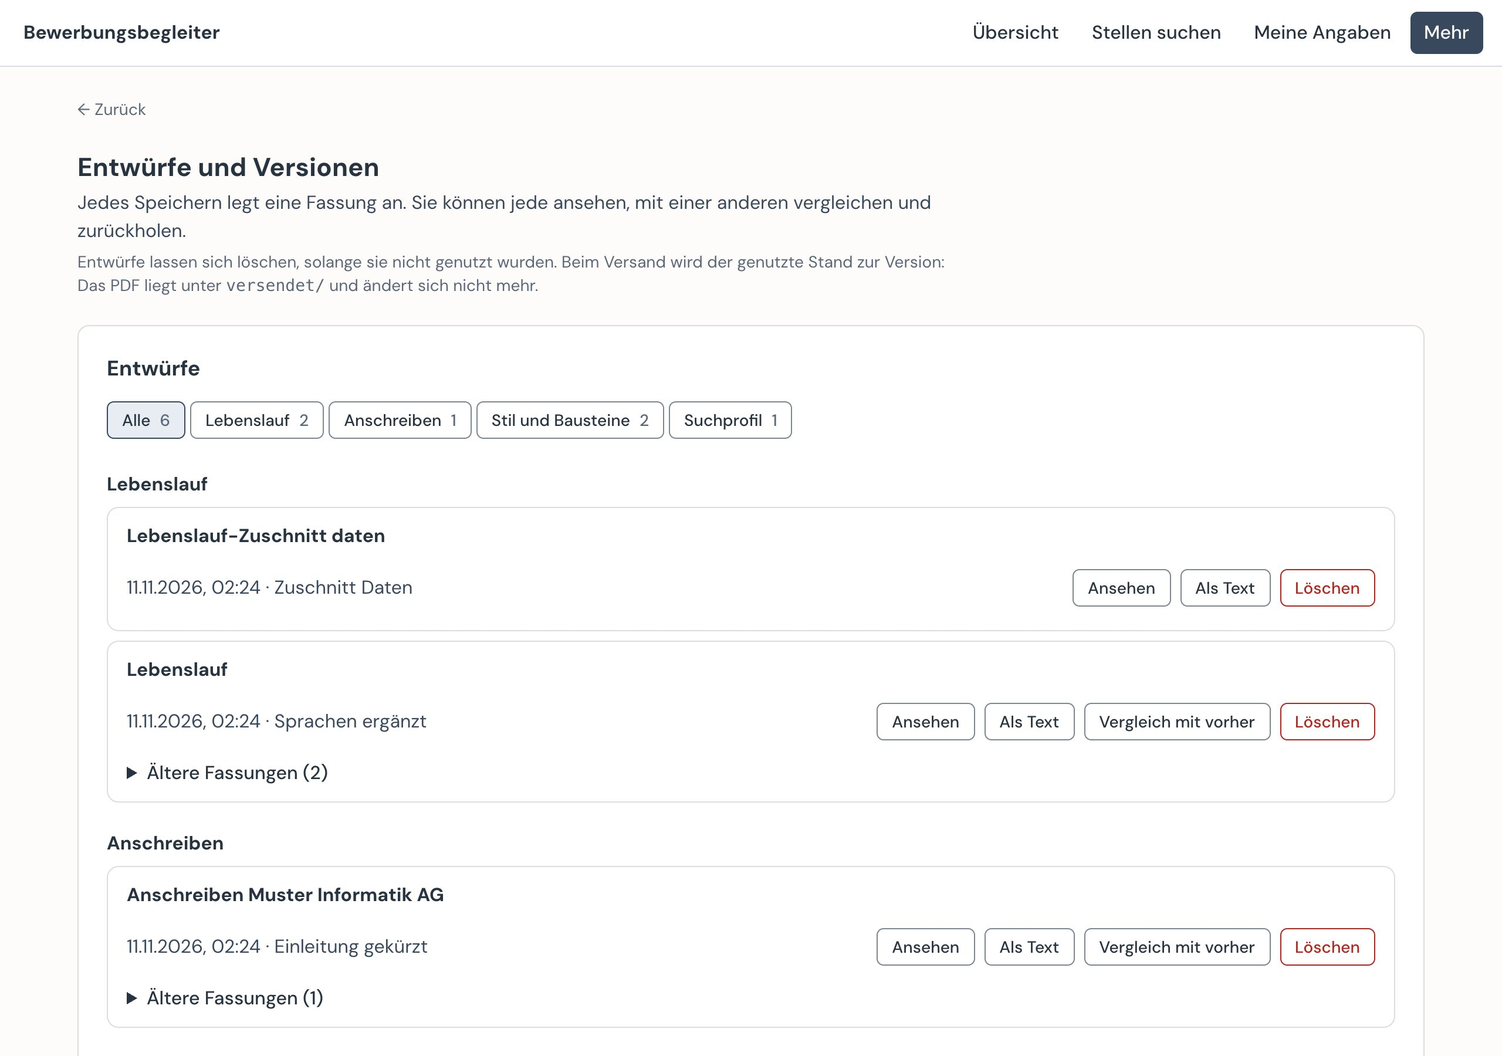
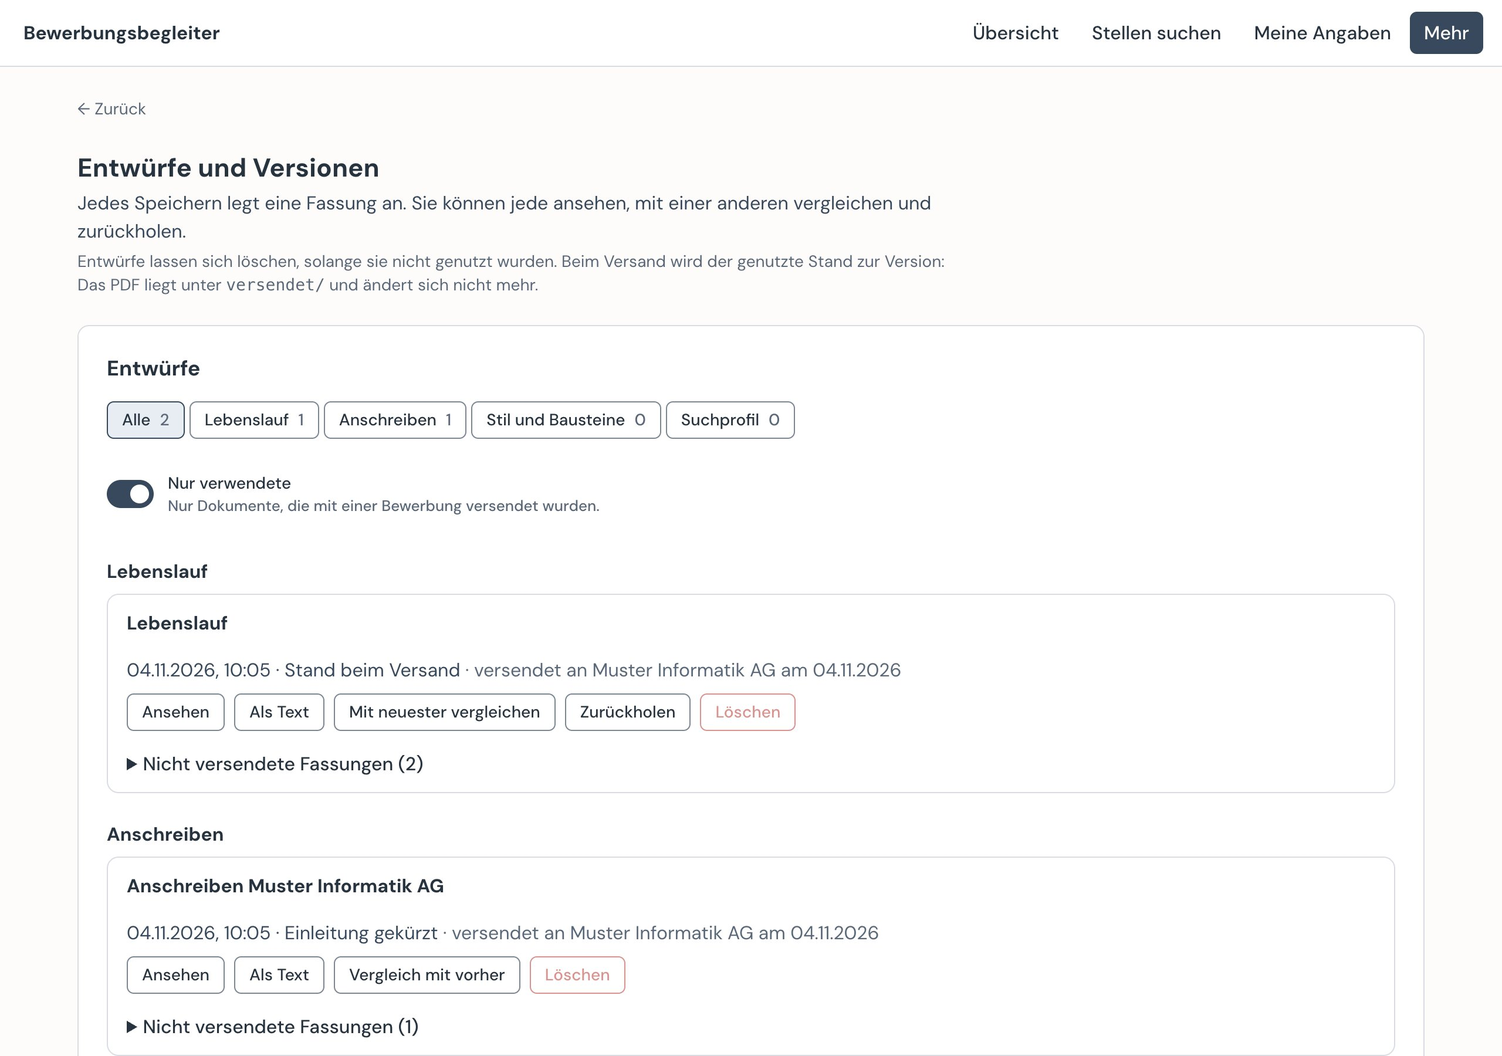
fix(bewerbungen): show only drafts sent with an application [#240]
Each version names the company and date it went out with, from the purpose the sending recorded on it. The switch keeps every version on the page and is remembered in the browser.

diff --git a/bewerbungen/seiten/entwuerfe.js b/bewerbungen/seiten/entwuerfe.js
@@ -66,28 +66,36 @@
     return knopfHolen;
   }
 
-  // One version: when, what, whether it was sent, and what can be done with it
+  // One version: when, what, with which application it went out, and what can be done with it
   function fassung(e, knoepfe) {
+    const versendet = Logik.versandText(e);
     return el("li", { class: "drafts__version" },
       el("div", {}, el("time", { datetime: e.zeit }, zeit(e.zeit)), " · ", e.beschreibung || "ohne Beschreibung",
-        e.genutzt ? el("span", { class: "leise", title: e.genutzt_fuer.join(", ") }, " · versendet") : null),
+        versendet ? el("span", { class: "drafts__sent" }, " · " + versendet) : null),
       el("div", { class: "knoepfe" }, knoepfe.filter(Boolean)));
   }
 
+  // The buttons of a version: the newest compares with the one before it, any other with the newest and can come back
+  function knoepfe(e, dokument) {
+    const [neueste, vorher] = dokument.fassungen;
+    const textKnopf = e.pdf && !e.datei.endsWith(".pdf") ? knopf("Als Text", () => alsText(e)) : null;
+    const vergleich = e === neueste
+      ? (vorher ? knopf("Vergleich mit vorher", () => vergleichen(vorher, neueste)) : null)
+      : knopf("Mit neuester vergleichen", () => vergleichen(e, neueste));
+    return [knopf("Ansehen", () => ansehen(e)), textKnopf, vergleich, e === neueste ? null : zurueckholenKnopf(e, dokument),
+      loeschenKnopf(e)];
+  }
+
   function dokumentKarte(dokument) {
-    const { neueste, aeltere } = Logik.fassungen(dokument);
-    const alsTextKnopf = e => (e.pdf && !e.datei.endsWith(".pdf") ? knopf("Als Text", () => alsText(e)) : null);
-    const oben = fassung(neueste, [knopf("Ansehen", () => ansehen(neueste)), alsTextKnopf(neueste),
-      aeltere.length ? knopf("Vergleich mit vorher", () => vergleichen(aeltere[0], neueste)) : null, loeschenKnopf(neueste)]);
-    const titel = Logik.aeltereTitel(aeltere);
-    const gefaltet = titel ? el("details", { class: "drafts__older" }, el("summary", {}, titel),
-      el("ul", {}, aeltere.map(e => fassung(e, [knopf("Ansehen", () => ansehen(e)), alsTextKnopf(e),
-        knopf("Mit neuester vergleichen", () => vergleichen(e, neueste)), zurueckholenKnopf(e, dokument), loeschenKnopf(e)])))) : null;
-    return el("article", { class: "karte drafts__doc" }, el("h4", {}, dokument.titel), el("ul", {}, [oben]), gefaltet);
+    const { oben, gefaltet, faltTitel } = Logik.ansicht(dokument, { nurVerwendet: nurVerwendet && !nurDatei });
+    const gefaltetTeil = faltTitel ? el("details", { class: "drafts__older" }, el("summary", {}, faltTitel),
+      el("ul", {}, gefaltet.map(e => fassung(e, knoepfe(e, dokument))))) : null;
+    return el("article", { class: "karte drafts__doc" }, el("h4", {}, dokument.titel),
+      el("ul", {}, oben.map(e => fassung(e, knoepfe(e, dokument)))), gefaltetTeil);
   }
 
   function zeigeFilter(gruppen) {
-    const knoepfe = Logik.filter(gruppen).map(f => el("button", {
+    const knoepfe = Logik.filter(gruppen, { nurVerwendet }).map(f => el("button", {
       type: "button", class: "btn btn--sm", "aria-pressed": String(f.art === filterArt),
       onclick: () => { filterArt = f.art; zeige(); },
     }, f.titel, " ", el("span", { class: "num" }, String(f.zahl))));
@@ -99,12 +107,30 @@
   let filterArt = Logik.ALLE;
   const nurDatei = new URLSearchParams(location.search).get("datei") || "";
 
+  // "Nur verwendete" stays across reloads; without storage (private window) it simply starts off
+  const NUR_VERWENDETE = "entwuerfe.nurVerwendet";
+  function gemerkt() {
+    try { return Logik.gespeichert(localStorage.getItem(NUR_VERWENDETE)); } catch { return false; }
+  }
+  function merken(an) {
+    try { localStorage.setItem(NUR_VERWENDETE, Logik.speicherwert(an)); } catch { /* the choice lasts until reload */ }
+  }
+  let nurVerwendet = gemerkt();
+  $("nur-verwendete").checked = nurVerwendet;
+  $("nur-verwendete").addEventListener("change", () => {
+    nurVerwendet = $("nur-verwendete").checked;
+    merken(nurVerwendet);
+    zeige();
+  });
+
   function zeige() {
     zeigeFilter(gruppen);
-    const sichtbar = Logik.sichtbar(gruppen, { art: filterArt, datei: nurDatei });
+    const sichtbar = Logik.sichtbar(gruppen, { art: filterArt, datei: nurDatei, nurVerwendet: nurVerwendet && !nurDatei });
     $("gruppen").replaceChildren(...sichtbar.map(g => el("section", { class: "drafts__group" },
       el("h3", {}, g.titel), ...g.dokumente.map(dokumentKarte))));
     $("leer").hidden = sichtbar.length > 0;
+    $("leer").textContent = nurVerwendet && !nurDatei && gruppen.length ? "Noch nichts mit einer Bewerbung versendet." : "Noch keine Entwürfe.";
+    $("nur-verwendete").closest("label").hidden = Boolean(nurDatei);
     $("nur-datei").hidden = !nurDatei;
   }
 

diff --git a/bewerbungen/seiten/entwuerfe-logik.js b/bewerbungen/seiten/entwuerfe-logik.js
@@ -1,22 +1,54 @@
 "use strict";
 // Entwürfe und Versionen grouped by document (#120): which groups and documents the page shows, and how a
-// document's versions split into the newest one and the older ones to fold away. No DOM (tests/entwuerfe_logik.test.cjs).
+// document's versions split into the newest one and the older ones to fold away. "Nur verwendete" (#240) keeps the
+// documents that went out with an application. No DOM (tests/entwuerfe_logik.test.cjs).
 (function (global) {
   const ALLE = "alle";
 
-  /** The groups to show: one kind of group, or all; with `datei`, only the document of that file. */
-  function sichtbar(gruppen, { art = ALLE, datei = "" } = {}) {
+  /** The documents of a group that count: all, or with `nurVerwendet` only those sent with an application. */
+  const zaehlende = (g, nurVerwendet) => g.dokumente.filter(d => !nurVerwendet || d.verwendet);
+
+  /** The groups to show: one kind of group, or all; with `datei`, only the document of that file. A used
+   * document keeps all its versions, the older ones too. */
+  function sichtbar(gruppen, { art = ALLE, datei = "", nurVerwendet = false } = {}) {
     return gruppen
       .filter(g => art === ALLE || g.art === art)
-      .map(g => ({ ...g, dokumente: g.dokumente.filter(d => !datei || d.datei === datei) }))
+      .map(g => ({ ...g, dokumente: zaehlende(g, nurVerwendet).filter(d => !datei || d.datei === datei) }))
       .filter(g => g.dokumente.length > 0);
   }
 
   /** The filter buttons: all, then each group with its number of documents. */
-  const filter = gruppen => [
-    { art: ALLE, titel: "Alle", zahl: gruppen.reduce((n, g) => n + g.dokumente.length, 0) },
-    ...gruppen.map(g => ({ art: g.art, titel: g.titel, zahl: g.dokumente.length })),
+  const filter = (gruppen, { nurVerwendet = false } = {}) => [
+    { art: ALLE, titel: "Alle", zahl: gruppen.reduce((n, g) => n + zaehlende(g, nurVerwendet).length, 0) },
+    ...gruppen.map(g => ({ art: g.art, titel: g.titel, zahl: zaehlende(g, nurVerwendet).length })),
   ];
+
+  /** What a document card shows: on top the newest version, or with `nurVerwendet` the versions that went out;
+   * the rest folds away, so no version leaves the page. */
+  function ansicht(dokument, { nurVerwendet = false } = {}) {
+    if (!nurVerwendet) {
+      const { neueste, aeltere } = fassungen(dokument);
+      return { oben: [neueste], gefaltet: aeltere, faltTitel: aeltereTitel(aeltere) };
+    }
+    const gesendet = f => (f.versendet || []).length > 0;
+    const gefaltet = dokument.fassungen.filter(f => !gesendet(f));
+    return { oben: dokument.fassungen.filter(gesendet), gefaltet,
+      faltTitel: gefaltet.length ? `Nicht versendete Fassungen (${gefaltet.length})` : null };
+  }
+
+  const tag = iso => iso.split("-").reverse().join(".");
+
+  /** Which applications a version went out with, or null when it never did. */
+  function versandText(fassung) {
+    const gesendet = fassung.versendet || [];
+    if (!gesendet.length) return null;
+    const teile = gesendet.map(v => (v.firma && v.datum ? `an ${v.firma} am ${tag(v.datum)}` : `(${v.zweck})`));
+    return "versendet " + teile.join(" und ");
+  }
+
+  /** The choice "Nur verwendete" as the page stores it, so it stays across reloads. */
+  const gespeichert = wert => wert === "1";
+  const speicherwert = an => (an ? "1" : "0");
 
   /** Versions come newest first: the newest one is shown, the older ones fold away. */
   function fassungen(dokument) {
@@ -27,7 +59,7 @@
   /** Label of the folded part, or null when there is nothing older. */
   const aeltereTitel = aeltere => (aeltere.length ? `Ältere Fassungen (${aeltere.length})` : null);
 
-  const logik = { ALLE, sichtbar, filter, fassungen, aeltereTitel };
+  const logik = { ALLE, sichtbar, filter, fassungen, aeltereTitel, ansicht, versandText, gespeichert, speicherwert };
   if (typeof module !== "undefined") module.exports = logik;
   else global.EntwuerfeLogik = logik;
 })(typeof window !== "undefined" ? window : globalThis);

diff --git a/bewerbungen/seiten/entwuerfe.html b/bewerbungen/seiten/entwuerfe.html
@@ -20,6 +20,7 @@
   <section class="card" aria-labelledby="entwuerfe-titel">
   <h2 id="entwuerfe-titel">Entwürfe</h2>
   <div role="group" aria-label="Entwürfe anzeigen" class="overview__views" id="filter"></div>
+  <label class="switch drafts__used"><input type="checkbox" role="switch" id="nur-verwendete"> <span>Nur verwendete <span class="search__hint">Nur Dokumente, die mit einer Bewerbung versendet wurden.</span></span></label>
   <p id="nur-datei" class="field__hint" hidden>Nur die Fassungen eines Dokuments. <a href="/entwuerfe">Alle Entwürfe zeigen</a></p>
   <div id="gruppen" class="drafts"></div>
   <p id="leer" class="leer" hidden>Noch keine Entwürfe.</p>

diff --git a/bewerbungen/seiten/stil.css b/bewerbungen/seiten/stil.css
@@ -834,6 +834,8 @@ button.hit[aria-current="true"] { background: var(--accent-subtle); }
 .drafts__doc ul { list-style: none; margin: 0; padding: 0; }
 .drafts__version { display: flex; flex-wrap: wrap; gap: var(--space-2); justify-content: space-between; align-items: center; padding: var(--space-2) 0; }
 .drafts__older { margin-top: var(--space-2); }
+.drafts__used { margin-top: var(--space-3); }
+.drafts__sent { color: var(--text-muted); }
 .drafts__older > summary { cursor: pointer; font-weight: 500; color: var(--text-strong); }
 .drafts__older .drafts__version { border-top: 1px solid var(--line); }
 

diff --git a/bewerbungen/tests/test_draft_groups.py b/bewerbungen/tests/test_draft_groups.py
@@ -2,7 +2,10 @@
 import json
 import re
 
+import datetime
+
 import draft_groups
+import versand
 from register import Register
 from sample_folder import BRIEF_ID
 from unterlagen import OWN_CV
@@ -116,3 +119,63 @@ def test_the_own_cv_from_meine_dateien_is_a_lebenslauf(server):
     assert [g["art"] for g in found] == ["lebenslauf"]
     assert [d["titel"] for d in found[0]["dokumente"]] == ["Lebenslauf", "Eigener Lebenslauf (PDF)"]
     assert draft_groups.category(OWN_CV) == "lebenslauf"
+
+
+def send(s, application_id: str, day: datetime.date, *files: str) -> None:
+    """Records a sending the way versand.erfasse_versand does: the register entry and the drafts marked as used."""
+    k = s.kontext
+    register = Register(k.daten)
+    application = register.hole(application_id)
+    register.speichere({**application, "versand": {"datum": day.isoformat(), "art": "elektronisch", "dateien": {}}})
+    k.ablage.markiere_genutzt([k.daten / f for f in files], versand.purpose(application, day))
+
+
+def test_a_sent_version_names_the_company_and_the_date(server):
+    drafts(server, ("cv.yaml", "Angaben"), (f"bewerbungen/{BRIEF_ID}/anschreiben.yaml", "Brief"))
+    send(server, BRIEF_ID, datetime.date(2026, 10, 24), "cv.yaml", f"bewerbungen/{BRIEF_ID}/anschreiben.yaml")
+
+    documents = {d["titel"]: d for g in groups(server) for d in g["dokumente"]}
+
+    cv = documents["Lebenslauf"]
+    assert cv["verwendet"] is True
+    assert cv["fassungen"][0]["versendet"] == [{"firma": "Beispiel AG", "datum": "2026-10-24"}]
+    assert documents["Anschreiben Beispiel AG"]["verwendet"] is True
+
+
+def test_a_document_never_sent_is_not_used(server):
+    drafts(server, ("cv.yaml", "Angaben"), ("suchprofil.md", "Suchprofil"))
+    send(server, BRIEF_ID, datetime.date(2026, 10, 24), "cv.yaml")
+
+    documents = {d["titel"]: d for g in groups(server) for d in g["dokumente"]}
+
+    assert documents["Suchprofil"]["verwendet"] is False
+    assert all(f["versendet"] == [] for f in documents["Suchprofil"]["fassungen"])
+
+
+def test_an_older_sent_version_keeps_its_sending_after_a_newer_draft(server):
+    drafts(server, ("cv.yaml", "eins"))
+    send(server, BRIEF_ID, datetime.date(2026, 10, 24), "cv.yaml")
+    drafts(server, ("cv.yaml", "zwei"))
+
+    cv = groups(server)[0]["dokumente"][0]
+
+    assert cv["verwendet"] is True
+    assert [f["versendet"] for f in cv["fassungen"]][0] == []
+    assert {"firma": "Beispiel AG", "datum": "2026-10-24"} in [v for f in cv["fassungen"] for v in f["versendet"]]
+
+
+def test_a_sending_whose_application_is_gone_still_counts_as_used():
+    version = {"datei": "cv.yaml", "genutzt_fuer": ["Versand: Alt AG – Tester (01.02.2026)"]}
+
+    found = draft_groups.group([version], {}, {})
+
+    document = found[0]["dokumente"][0]
+    assert document["verwendet"] is True
+    assert document["fassungen"][0]["versendet"] == [{"firma": None, "datum": None,
+                                                     "zweck": "Versand: Alt AG – Tester (01.02.2026)"}]
+
+
+def test_the_page_offers_only_used_documents(server):
+    html = get(server, "/entwuerfe")[2].decode("utf-8")
+
+    assert 'id="nur-verwendete"' in html and "Nur verwendete" in html

diff --git a/bewerbungen/draft_groups.py b/bewerbungen/draft_groups.py
@@ -2,7 +2,8 @@
 
 Entwürfe und Versionen shows the CV, one letter per application, style and building blocks, and the search
 profile; each document lists its versions newest first. Job ads (`bewerbungen/<id>/stelle.md`) are copies of
-the posting, not the person's own writing, so the page leaves them out.
+the posting, not the person's own writing, so the page leaves them out. A version that went out with an application
+names its company and date (#240), so the page can show only the documents used.
 """
 import pathlib
 
@@ -55,7 +56,13 @@ def document_title(rel: str, companies: dict[str, str]) -> str:
     return inhalte.titel(rel)
 
 
-def _documents(drafts: list[dict], companies: dict[str, str]) -> dict[str, list[dict]]:
+def sent_with(draft: dict, sendings: dict[str, dict]) -> list[dict]:
+    """The applications a version went out with; one whose entry is gone keeps the purpose it was recorded with."""
+    return [{**sendings[p]} if p in sendings else {"firma": None, "datum": None, "zweck": p}
+            for p in draft.get("genutzt_fuer", ())]
+
+
+def _documents(drafts: list[dict], companies: dict[str, str], sendings: dict[str, dict]) -> dict[str, list[dict]]:
     """Documents per category, in the order of their newest version; `drafts` come newest first."""
     by_file: dict[str, list[dict]] = {}
     for draft in drafts:
@@ -63,12 +70,14 @@ def _documents(drafts: list[dict], companies: dict[str, str]) -> dict[str, list[
     documents: dict[str, list[dict]] = {}
     for rel, versions in by_file.items():
         title = document_title(rel, companies)
-        document = {"datei": rel, "titel": title, "fassungen": [{**v, "titel": title} for v in versions]}
+        shown = [{**v, "titel": title, "versendet": sent_with(v, sendings)} for v in versions]
+        document = {"datei": rel, "titel": title, "fassungen": shown,
+                    "verwendet": any(v["versendet"] for v in shown)}
         documents.setdefault(category(rel), []).append(document)
     return documents
 
 
-def group(drafts: list[dict], companies: dict[str, str]) -> list[dict]:
-    """Groups in a fixed order, empty ones left out; job ads never appear."""
-    documents = _documents([d for d in drafts if not is_job_ad(d["datei"])], companies)
+def group(drafts: list[dict], companies: dict[str, str], sendings: dict[str, dict]) -> list[dict]:
+    """Groups in a fixed order, empty ones left out; job ads never appear. `sendings` from `versand.sendings`."""
+    documents = _documents([d for d in drafts if not is_job_ad(d["datei"])], companies, sendings)
     return [{"art": art, "titel": title, "dokumente": documents[art]} for art, title in GROUPS if art in documents]

diff --git a/bewerbungen/versand.py b/bewerbungen/versand.py
@@ -32,8 +32,20 @@ FORM_VERSION_KEPT = "Festgehalten ist, was das Formular bekommen hat. Die neuere
 COPY_LEFT = "Die Kopie für das Formular liess sich nicht entfernen: {error}"
 
 
-def _zweck(bewerbung: dict, datum: datetime.date) -> str:
+def purpose(bewerbung: dict, datum: datetime.date) -> str:
+    """What a sending is called on the drafts it used (`genutzt_fuer`) and in Git."""
     return f"Versand: {bewerbung['firma']} – {bewerbung['stelle']} ({datum:%d.%m.%Y})"
+
+
+def sendings(bewerbungen: list[dict]) -> dict[str, dict]:
+    """Company and date of each sent application, by the purpose its drafts carry."""
+    found = {}
+    for bewerbung in bewerbungen:
+        versand = bewerbung.get("versand")
+        if versand:
+            datum = datetime.date.fromisoformat(versand["datum"])
+            found[purpose(bewerbung, datum)] = {"firma": bewerbung.get("firma"), "datum": versand["datum"]}
+    return found
 
 
 def lege_ab(daten: pathlib.Path, pdf: pathlib.Path, datum: datetime.date) -> pathlib.Path:
@@ -129,7 +141,7 @@ def erfasse_versand(daten: pathlib.Path, bewerbung_id: str, datum: datetime.date
         raise ValueError("Lebenslauf-PDF fehlt: zuerst die Unterlagen erstellen und prüfen")
 
     abgelegt = {a: lege_ab(daten, p, datum) for a, p in fassungen.items()}
-    zweck = _zweck(bewerbung, datum)
+    zweck = purpose(bewerbung, datum)
     quellen = _datenquellen(daten, bewerbung, fassungen.get("anschreiben"))
     Ablage(daten).markiere_genutzt(quellen, zweck)
 
@@ -161,7 +173,7 @@ def versendete(daten: pathlib.Path, versionierung: Versionierung) -> list[dict]:
         versand = bewerbung.get("versand")
         if not versand:
             continue
-        zweck = _zweck(bewerbung, datetime.date.fromisoformat(versand["datum"]))
+        zweck = purpose(bewerbung, datetime.date.fromisoformat(versand["datum"]))
         quellen = {e.datei for e in entwuerfe if zweck in e.genutzt_fuer}
         eintraege.append({"nachricht": zweck, "datum": versand["datum"], "commit": commits.get(zweck),
                           "dateien": sorted(quellen | set(versand.get("dateien", {}).values()))})

diff --git a/bewerbungen/routen_ablage.py b/bewerbungen/routen_ablage.py
@@ -27,11 +27,23 @@ def _limit(parameter) -> int | None:
     return int(value)
 
 
-def _companies(k) -> dict[str, str]:
-    """Company per application; a register that does not read leaves the folder names, the drafts stay visible."""
+def _applications(k) -> list[dict]:
+    """The applications; a register that does not read leaves the folder names, the drafts stay visible."""
     try:
-        return {b["id"]: b.get("firma", "") for b in k.register().alle()}
+        return k.register().alle()
     except (ValueError, TypeError, KeyError, yaml.YAMLError):
+        return []
+
+
+def _companies(applications: list[dict]) -> dict[str, str]:
+    return {b["id"]: b.get("firma", "") for b in applications}
+
+
+def _sendings(applications: list[dict]) -> dict[str, dict]:
+    try:
+        return versand.sendings(applications)
+    except (ValueError, TypeError, KeyError):
+        # A sending date that does not read leaves those versions marked with their purpose only
         return {}
 
 
@@ -42,8 +54,9 @@ def entwuerfe(k, parameter, body):
     alle = [e for e in k.ablage.liste() if not draft_groups.is_job_ad(e.datei)]
     auswahl = k.ablage.liste(im_ordner(k.daten, datei)) if datei else alle
     shown = [_mit_ansicht(e) for e in auswahl]
+    applications = _applications(k)
     return json_antwort({"entwuerfe": shown[:limit], "dateien": sorted({e.datei for e in alle}),
-                         "gruppen": draft_groups.group(shown, _companies(k))})
+                         "gruppen": draft_groups.group(shown, _companies(applications), _sendings(applications))})
 
 
 def entwurf(k, parameter, body):

diff --git a/bewerbungen/CLAUDE.md b/bewerbungen/CLAUDE.md
@@ -9,7 +9,7 @@ Verwaltung und lokale Oberfläche des Bewerbungsbegleiters (MIN-261 Ablauf, MIN-
 - `kontext.py` – Datenordner, Build-Ordner, Ablage, Versionierung; `mit_entwurf` legt beim Schreiben Entwürfe davor/danach an.
 - `ablage.py` – Entwürfe in `.entwuerfe/` (SHA-256, Index); löschbar solange nicht genutzt.
 - `routen_foto.py`, `photo_file.py` – Seite „Foto“: Ausschnitt und, ohne Foto, Hochladen (#128) als `foto.jpg` oder `foto.png` im Datenordner, höchstens 10 MB, mit Entwürfen von Foto und `cv.yaml` davor und danach. `photo_file` entfernt die Metadaten ohne Bildbibliothek (Segmente und Chunks kopiert, nur die Ausrichtung bleibt als eigenes EXIF); ob das Bild wirklich lesbar ist, prüft ein Probesatz mit Typst. Pillow gibt es nur in den Tests. Mehrere Fotos (#129, G21, `photos.py`): aktiv ist das Foto, das `cv.yaml` nennt (mit seinem Ausschnitt in `basics.x-image`), daraus bauen Lebenslauf und Dossier wie bisher; `fotos.yaml` listet alle mit eigenem Ausschnitt, weitere liegen unter `fotos/` mit Hash im Namen. Ein Ordner von vorher braucht keinen Schritt: sein Foto ist das erste, aktive. Hochladen überschreibt nie, Wechseln legt Entwürfe von `cv.yaml` und Liste an, Löschen nur ein nicht aktives Foto und erst nach einem Entwurf davon; die Routen erreichen nur gelistete Fotos.
-- `draft_groups.py` – Entwürfe für die Seite „Entwürfe und Versionen“ nach Dokument gruppiert (#120): Lebenslauf (auch das eigene PDF aus „Meine Dateien“), Anschreiben je Bewerbung (mit Firma), Stil und Bausteine, Suchprofil, Weitere; je Dokument die neueste Fassung zuerst. Stelleninserate (`bewerbungen/<id>/stelle.md`) zeigt die Seite nicht; nur wer ihre Datei ausdrücklich abfragt (Editor in „Inhalte als Text“), bekommt ihre Entwürfe. Anzeige-Logik ohne DOM in `seiten/entwuerfe-logik.js`.
+- `draft_groups.py` – Entwürfe für die Seite „Entwürfe und Versionen“ nach Dokument gruppiert (#120): Lebenslauf (auch das eigene PDF aus „Meine Dateien“), Anschreiben je Bewerbung (mit Firma), Stil und Bausteine, Suchprofil, Weitere; je Dokument die neueste Fassung zuerst. Stelleninserate (`bewerbungen/<id>/stelle.md`) zeigt die Seite nicht; nur wer ihre Datei ausdrücklich abfragt (Editor in „Inhalte als Text“), bekommt ihre Entwürfe. Mit „Nur verwendete“ (#240) zeigt die Seite nur Dokumente, die mit einer Bewerbung versendet wurden (`genutzt_fuer` der Ablage, Firma und Datum über `versand.sendings`), die versendeten Fassungen oben, die übrigen eingeklappt; die Wahl bleibt im Browser (`localStorage`) über das Neuladen hinaus. Anzeige-Logik ohne DOM in `seiten/entwuerfe-logik.js`.
 - `versionen.py` – zusätzlicher Git-Commit beim Versand, nur wenn Git installiert ist (nur die genannten Dateien, Ersatz-Autor ohne Git-Konfiguration); ohne Git `OhneGit`. Die eigene Ablage ist auch ohne Git vollständig (MIN-304).
 - `register.py` – `bewerbungen.yaml`, Prüfung, IDs, Job-Room-Angaben (nur abgeleitet, nie gespeichert), Import/Export im Format der Jobliste.
 - `varianten.py` – `varianten.yaml`, Vorschlag per Stichwort-Abgleich.

diff --git a/README.md b/README.md
@@ -44,7 +44,7 @@ Alle Bilder zeigen frei erfundene Beispieldaten.
 
 **Entwürfe und Versionen:** Jedes Speichern legt einen Entwurf mit Datum an, geordnet nach Lebenslauf, Anschreiben je Bewerbung, Stil und Bausteinen und Suchprofil; ältere Fassungen sind aufklappbar. Was versendet wurde, bleibt erhalten und lässt sich nicht mehr löschen.
 
-![Entwürfe nach Lebenslauf und Anschreiben gruppiert, je Dokument die neueste Fassung und die älteren aufklappbar](docs/bilder/entwuerfe.jpg)
+![Entwürfe nach Lebenslauf und Anschreiben gruppiert, mit „Nur verwendete“ nur die versendeten Fassungen mit Firma und Datum, die übrigen aufklappbar](docs/bilder/entwuerfe.jpg)
 
 **Fotoausschnitt (freiwillig):** Ausschnitt per Maus oder Tastatur einstellen, mit Vorschau in Druckgrösse.
 
